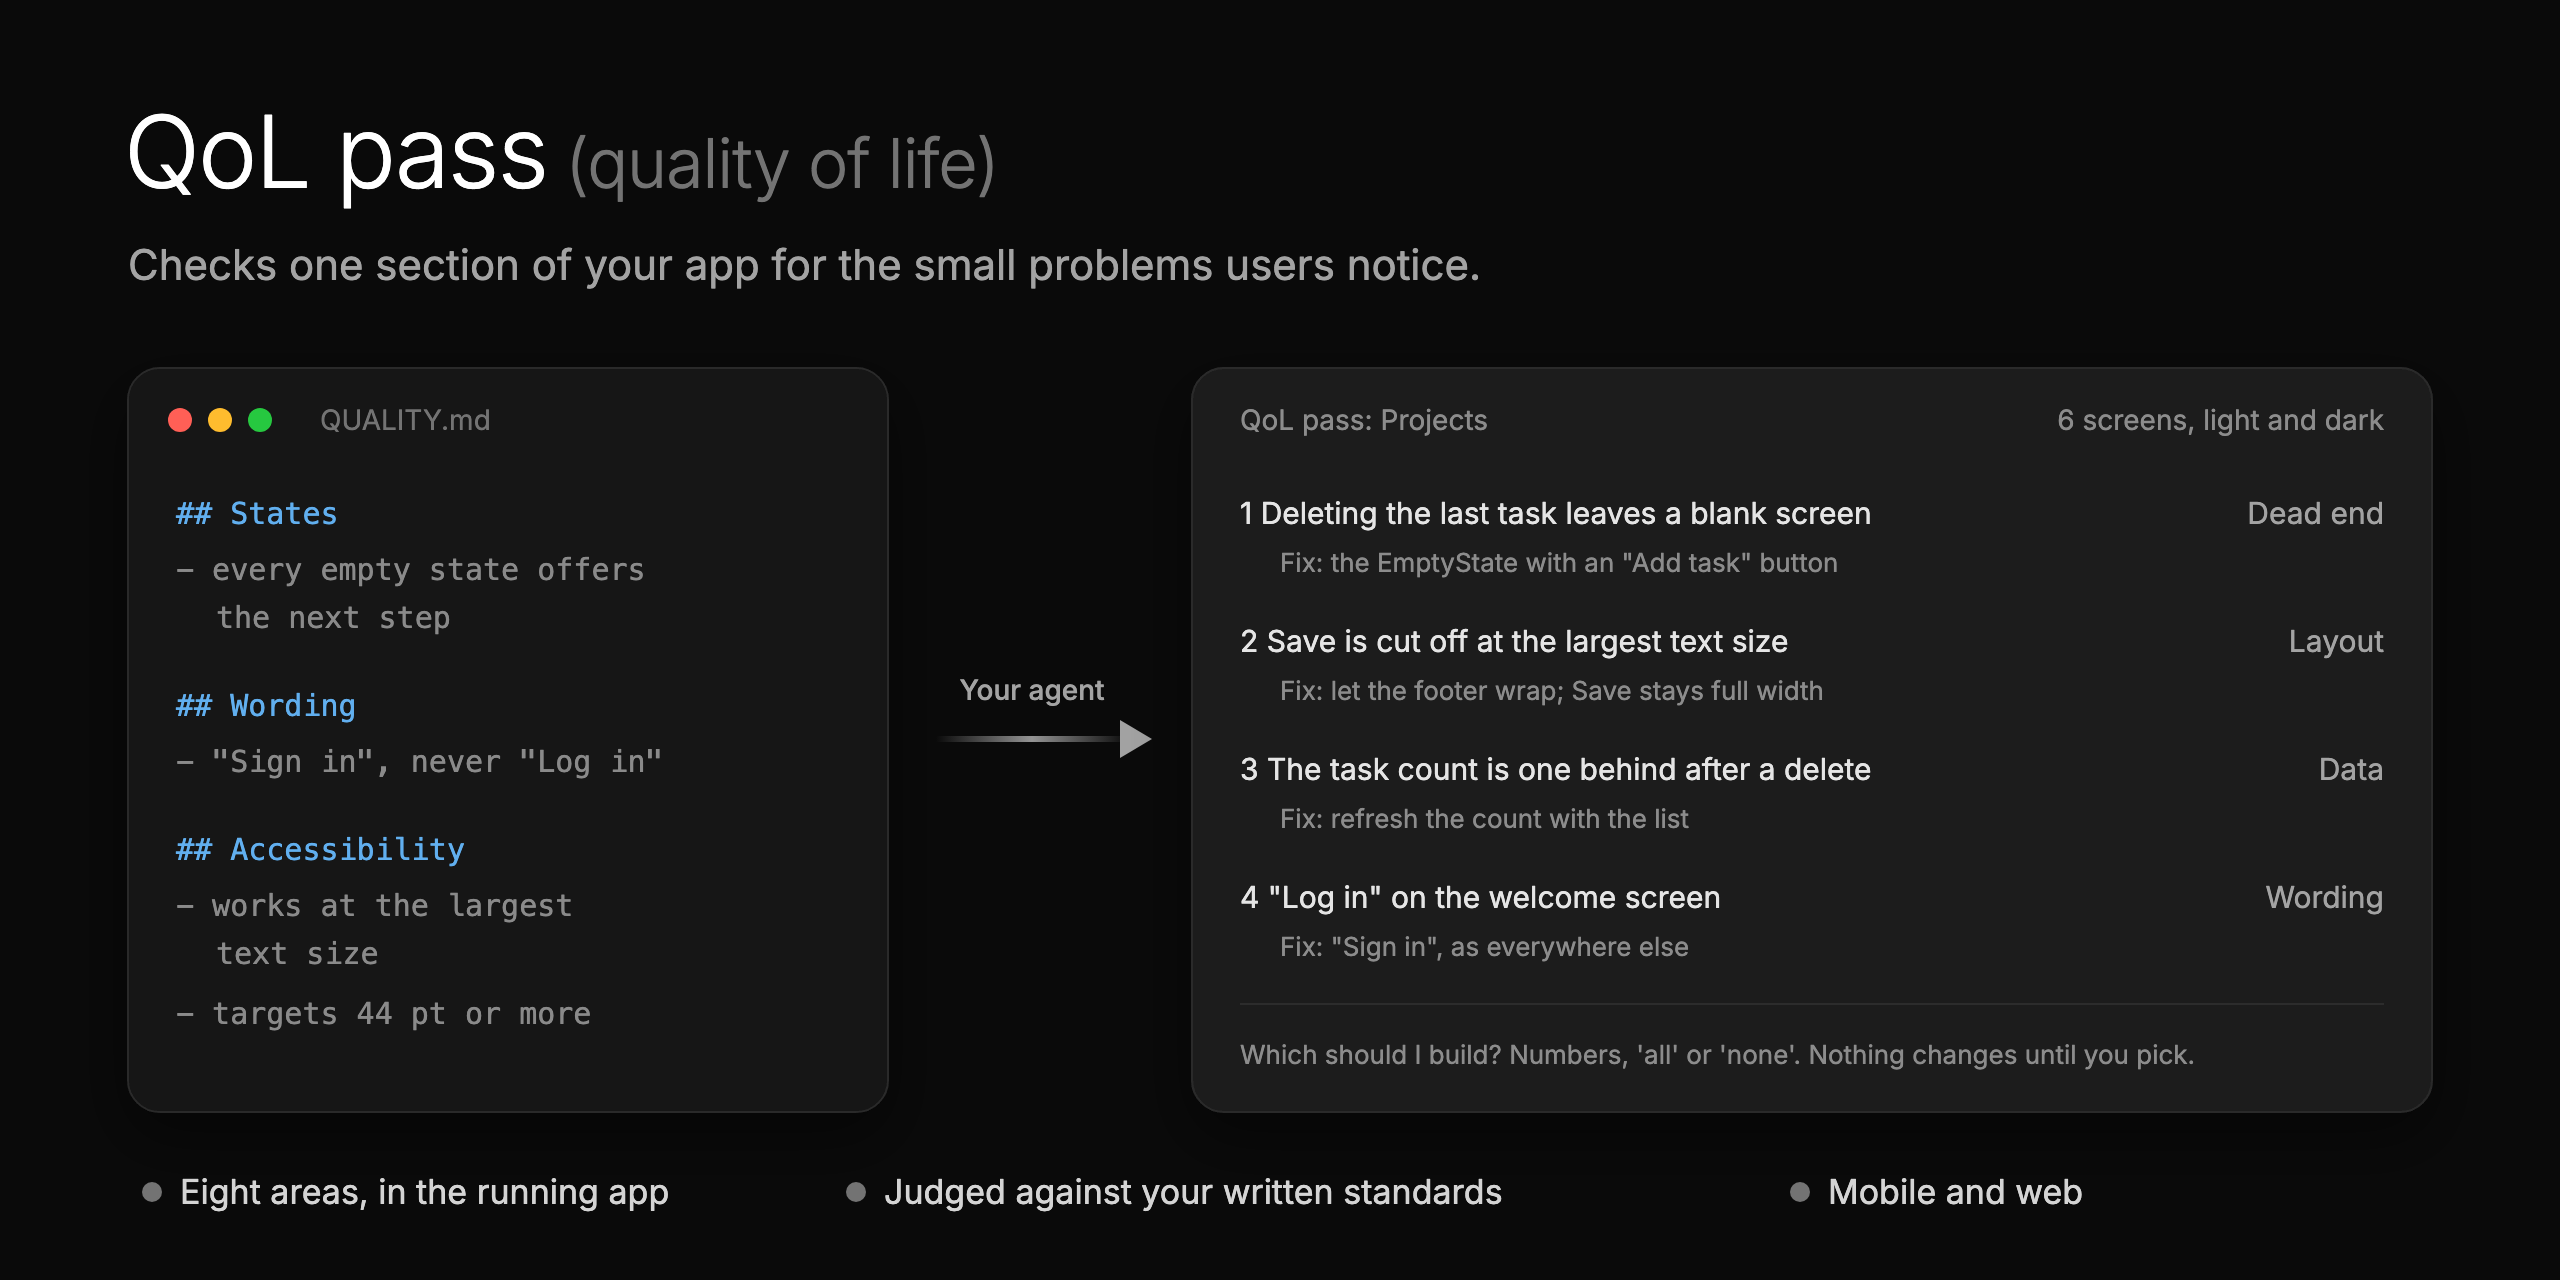
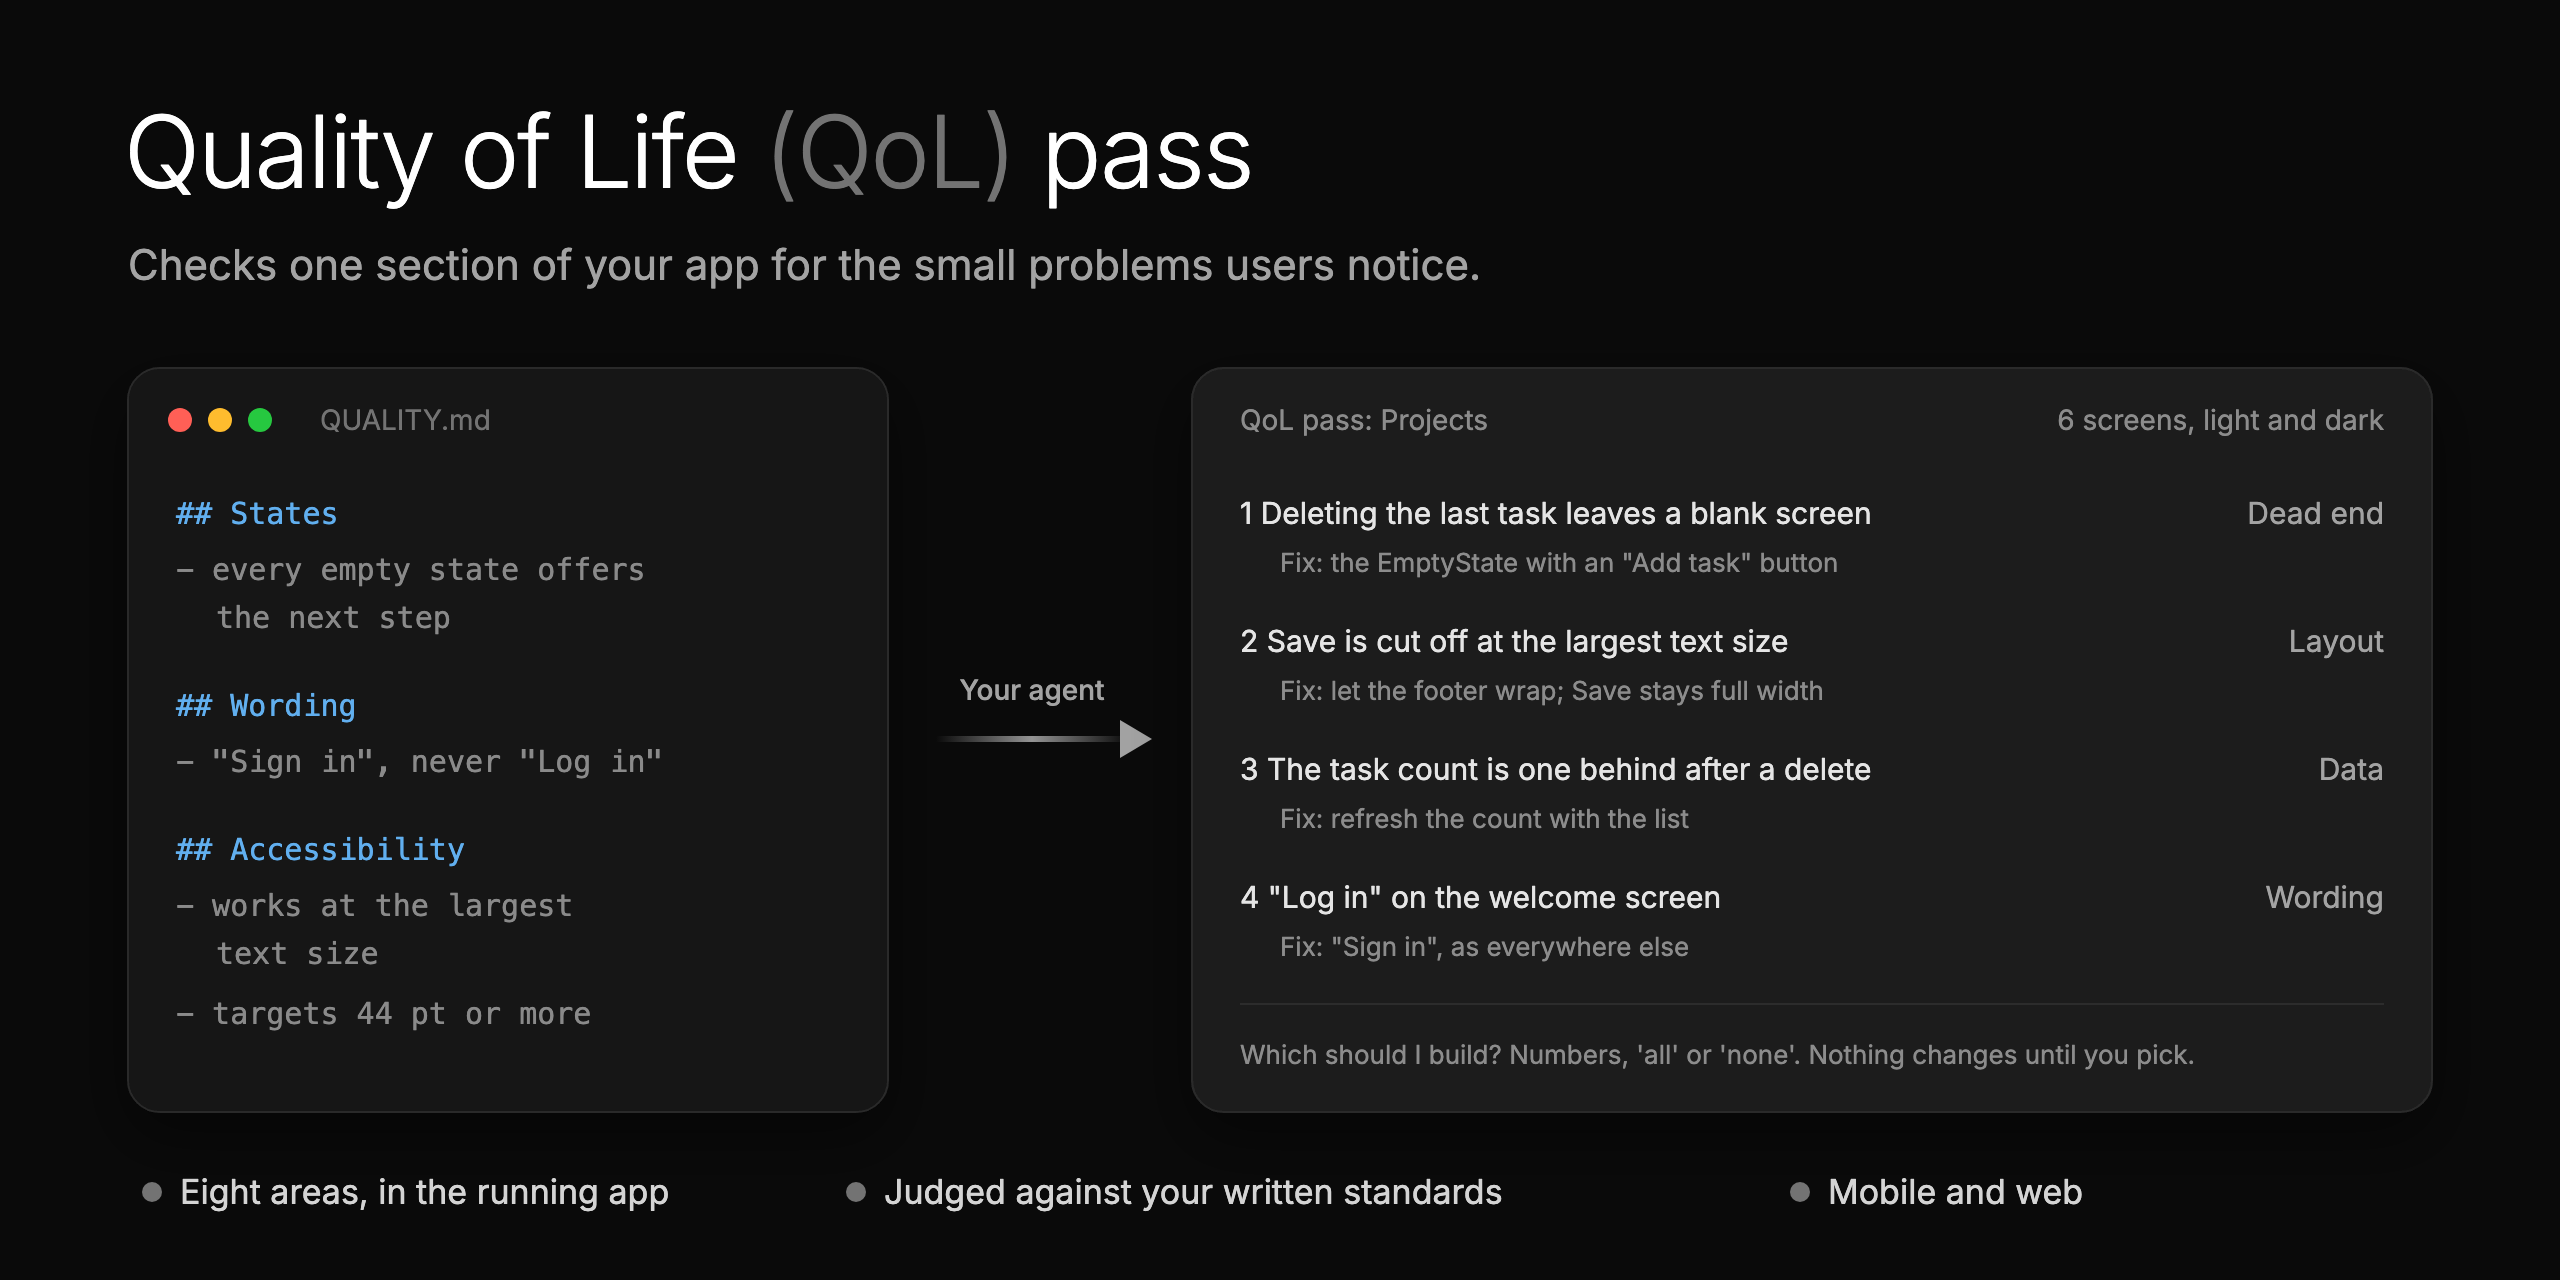
qol-pass: Quality of Life (QoL) first, the short form second
Home page table and section, the skill page title, the skill description
and the banner title.

Changed region(s): [[0.0625, 0.0938, 0.5, 0.1562]]

diff --git a/README.md b/README.md
@@ -28,7 +28,7 @@ Code, Cursor, Codex and [other agents](https://skills.sh).
 
 | Skill | What it does | When you run it |
 |---|---|---|
-| [qol-pass](skills/qol-pass/) | A QoL (quality of life) pass: checks one section of your running app for the small problems users notice: dead ends, stale data, wording, empty and error states, layout at the largest text size, accessibility. Judges it against your QUALITY.md (and writes one if you have none). | Any time, one section per pass |
+| [qol-pass](skills/qol-pass/) | A Quality of Life (QoL) pass: checks one section of your running app for the small problems users notice: dead ends, stale data, wording, empty and error states, layout at the largest text size, accessibility. Judges it against your QUALITY.md (and writes one if you have none). | Any time, one section per pass |
 
 **Engineering**
 
@@ -117,20 +117,20 @@ fixes to build. Run it any time, or every Monday.
 ### #3: Small problems reach your users
 
 <p align="center">
-  <img src="assets/qol-pass.png" alt="QoL (quality of life) pass: a QUALITY.md on the left, your agent in the middle, and on the right a numbered list of findings for one section, each with its area and a fix, and the question which to build." width="100%">
+  <img src="assets/qol-pass.png" alt="Quality of Life (QoL) pass: a QUALITY.md on the left, your agent in the middle, and on the right a numbered list of findings for one section, each with its area and a fix, and the question which to build." width="100%">
 </p>
 
 **The problem.** Code review catches bugs. It rarely catches the small problems users notice: a blank screen after you
 delete the last item, a button that just says "OK", a count that is one behind, a label cut off at the largest
 text size. And most teams have no written quality bar, so every review is one person's taste.
 
-**The fix.** [**qol-pass**](skills/qol-pass/) (QoL is short for quality of life) walks one section of your running app (a simulator or a browser) and
+**The fix.** [**qol-pass**](skills/qol-pass/), a Quality of Life (QoL) pass, walks one section of your running app (a simulator or a browser) and
 checks eight areas: behaviour, dead ends, wrong or stale data, wording, empty, loading and error states, layout
 edge cases, motion, and accessibility. It judges what it finds against your own standards, or drafts a
 `QUALITY.md` from what your code already does when you have none. You get one numbered list with a fix for each,
 and it builds only what you pick, with before and after shots.
 
-[Read more about the QoL pass](skills/qol-pass/)
+[Read more about the Quality of Life pass](skills/qol-pass/)
 
 ## Contributing
 

diff --git a/skills/qol-pass/SKILL.md b/skills/qol-pass/SKILL.md
@@ -1,10 +1,10 @@
 ---
 name: qol-pass
-description: QoL (quality of life) pass on one section of a mobile or web app - walks the running product and checks behaviour, dead ends, wrong or stale data, wording, empty, loading and error states, layout edge cases (largest text, small screens, long names), motion and accessibility against the team's written standards, and drafts a QUALITY.md when the repo has none; lists findings with a recommended fix each and builds only what the person picks. Use when someone asks for a QoL or quality of life pass, a polish or UX pass, a quality review of a screen, flow or page, a check of a section before release, or wants the product's quality standards written down.
+description: Quality of Life (QoL) pass on one section of a mobile or web app - walks the running product and checks behaviour, dead ends, wrong or stale data, wording, empty, loading and error states, layout edge cases (largest text, small screens, long names), motion and accessibility against the team's written standards, and drafts a QUALITY.md when the repo has none; lists findings with a recommended fix each and builds only what the person picks. Use when someone asks for a Quality of Life or QoL pass, a polish or UX pass, a quality review of a screen, flow or page, a check of a section before release, or wants the product's quality standards written down.
 argument-hint: "[setup | next | <section name>]"
 ---
 
-# QoL pass
+# Quality of Life (QoL) pass
 
 Check one section of the product (a tab, a flow, a group of pages) for the small problems users notice, judge it against
 written standards (**the bar**), and hand back one numbered list of findings. **Build nothing before the person

diff --git a/skills/qol-pass/README.md b/skills/qol-pass/README.md
@@ -1,10 +1,10 @@
 <p align="center">
-  <img src="../../assets/qol-pass.png" alt="QoL (quality of life) pass: one section of an app on the left, checked against a QUALITY.md, and on the right a numbered list of findings with a recommended fix each and the question which to build." width="100%">
+  <img src="../../assets/qol-pass.png" alt="Quality of Life (QoL) pass: one section of an app on the left, checked against a QUALITY.md, and on the right a numbered list of findings with a recommended fix each and the question which to build." width="100%">
 </p>
 
-# QoL pass
+# Quality of Life (QoL) pass
 
-QoL is short for **quality of life**: the small things that make an app easier and nicer to use.
+Quality of Life means the small things that make an app easier and nicer to use.
 
 **Checks one section of your app for the small problems users notice, and fixes the ones you pick.**
 
